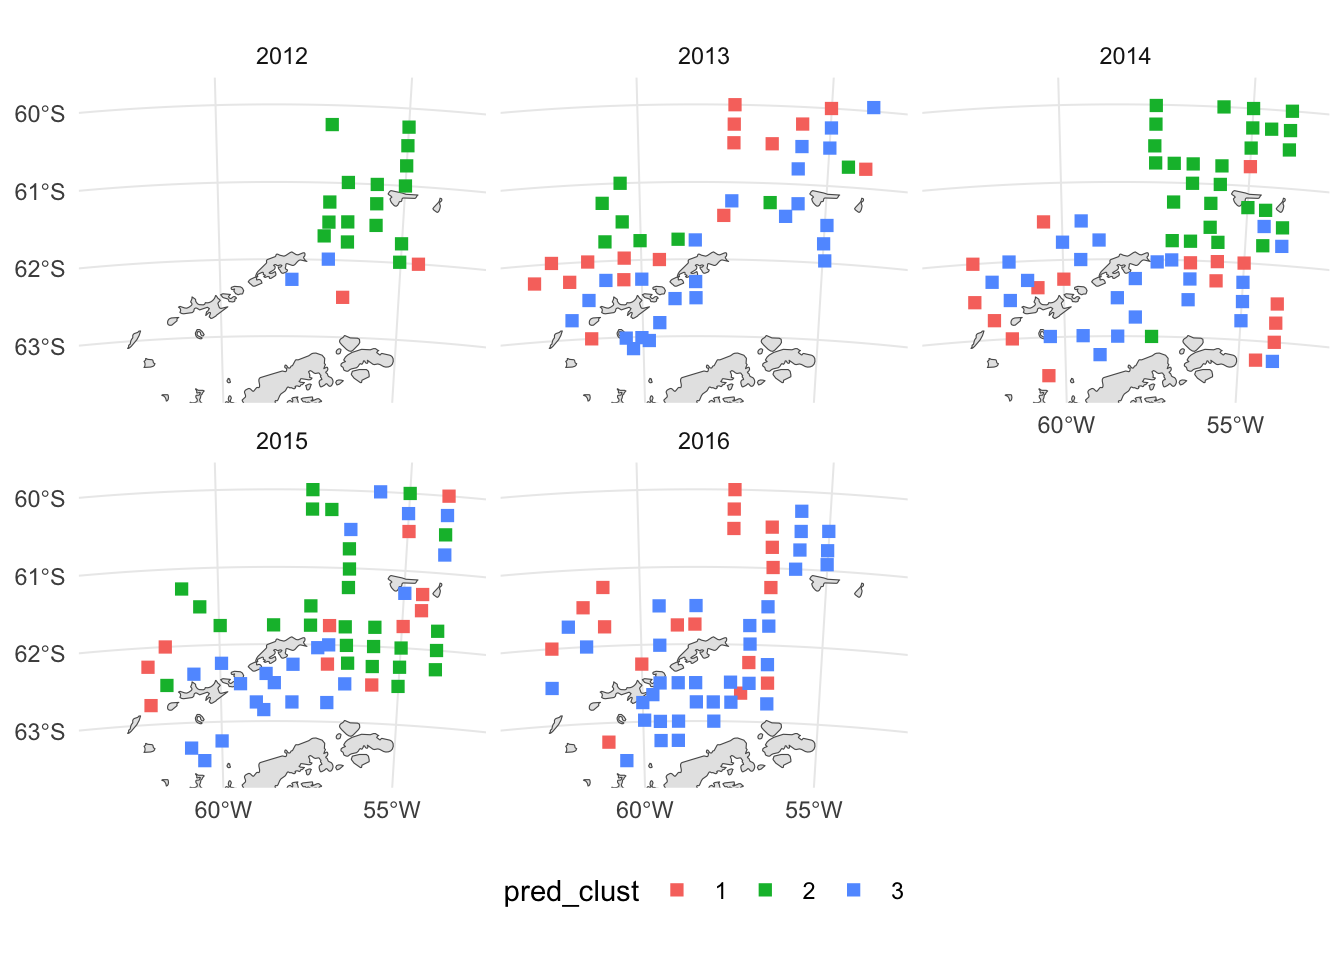
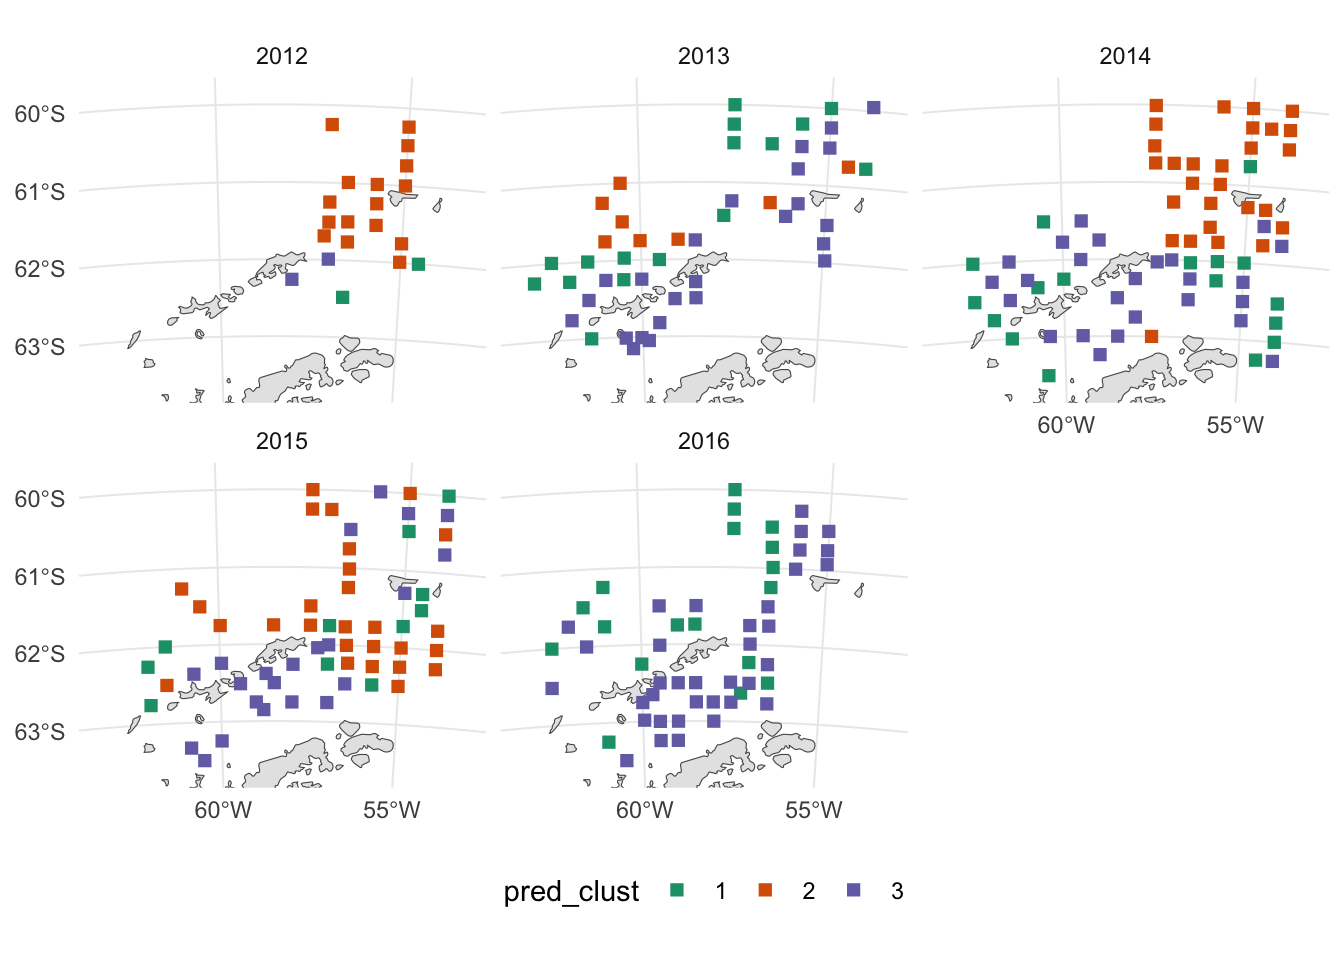
Make cluster maps' color scheme match

diff --git a/docs/04_pred_clus.html b/docs/04_pred_clus.html
@@ -520,8 +520,9 @@ div.csl-indent {
 <span id="cb6-17"><a href="#cb6-17" aria-hidden="true" tabindex="-1"></a>  <span class="fu">facet_wrap</span>(<span class="sc">~</span> Year) <span class="sc">+</span></span>
 <span id="cb6-18"><a href="#cb6-18" aria-hidden="true" tabindex="-1"></a>  <span class="fu">scale_x_continuous</span>(<span class="at">breaks =</span> <span class="fu">c</span>(<span class="sc">-</span><span class="dv">60</span>, <span class="sc">-</span><span class="dv">55</span>)) <span class="sc">+</span></span>
 <span id="cb6-19"><a href="#cb6-19" aria-hidden="true" tabindex="-1"></a>  <span class="fu">scale_y_continuous</span>(<span class="at">breaks =</span> <span class="fu">c</span>(<span class="sc">-</span><span class="dv">63</span>, <span class="sc">-</span><span class="dv">62</span>, <span class="sc">-</span><span class="dv">61</span>, <span class="sc">-</span><span class="dv">60</span>)) <span class="sc">+</span></span>
-<span id="cb6-20"><a href="#cb6-20" aria-hidden="true" tabindex="-1"></a>  <span class="fu">coord_ant</span>(map_lim) <span class="sc">+</span></span>
-<span id="cb6-21"><a href="#cb6-21" aria-hidden="true" tabindex="-1"></a>  <span class="fu">theme</span>(<span class="at">legend.position =</span> <span class="st">"bottom"</span>)</span></code><button title="Copy to Clipboard" class="code-copy-button"><i class="bi"></i></button></pre></div>
+<span id="cb6-20"><a href="#cb6-20" aria-hidden="true" tabindex="-1"></a>  <span class="fu">scale_color_brewer</span>(<span class="at">palette =</span> <span class="st">"Dark2"</span>) <span class="sc">+</span></span>
+<span id="cb6-21"><a href="#cb6-21" aria-hidden="true" tabindex="-1"></a>  <span class="fu">coord_ant</span>(map_lim) <span class="sc">+</span></span>
+<span id="cb6-22"><a href="#cb6-22" aria-hidden="true" tabindex="-1"></a>  <span class="fu">theme</span>(<span class="at">legend.position =</span> <span class="st">"bottom"</span>)</span></code><button title="Copy to Clipboard" class="code-copy-button"><i class="bi"></i></button></pre></div>
 </details>
 <div class="cell-output-display">
 <p><img src="04_pred_clus_files/figure-html/cluster_maps-1.png" class="img-fluid" width="672"></p>
